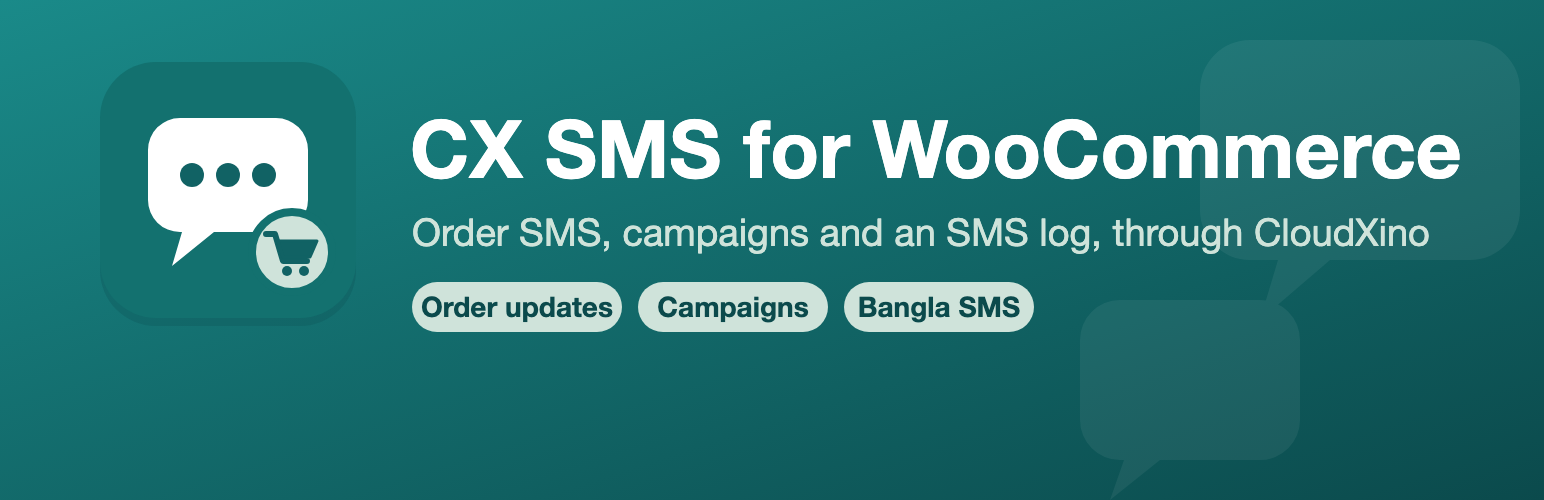
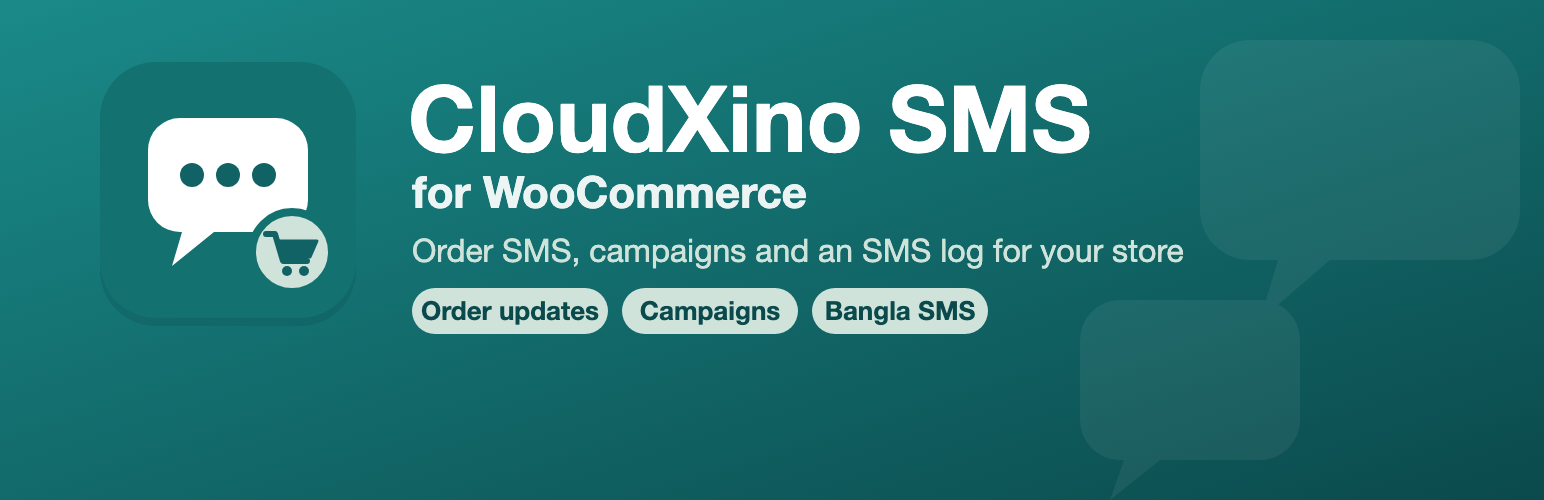
WordPress.org review: rename to CloudXino SMS for WooCommerce; limit notices
- Name "CloudXino SMS for WooCommerce", slug and Text Domain
  cloudxino-sms-for-woocommerce: the official plugin of CloudXino, owned on
  WordPress.org by the cloudxino account (Contributors: cloudxino, salimsrj).
  Plugin URI and Author URI point to cloudxino.com. Banner title updated.
- Guideline 11: the "needs WooCommerce" notice shows only on the Plugins screen, to
  users who can activate plugins; the stuck-queue warning shows only on the
  plugin's own SMS pages, no longer on the WooCommerce orders screens.

Changed region(s): [[0.2487, 0.15, 0.9637, 0.69]]

diff --git a/assets/admin.js b/assets/admin.js
@@ -1,4 +1,4 @@
-/* CX SMS admin: character counter, message switches, reveal secrets, tick all, refresh while sending. */
+/* CloudXino SMS admin: character counter, message switches, reveal secrets, tick all, refresh while sending. */
 ( function ( $ ) {
 	'use strict';
 

diff --git a/cxsms.php b/cxsms.php
@@ -1,7 +1,7 @@
 <?php
 /**
- * Plugin Name:       CX SMS for WooCommerce
- * Plugin URI:        https://github.com/salimsrj/cxsms
+ * Plugin Name:       CloudXino SMS for WooCommerce
+ * Plugin URI:        https://cloudxino.com
  * Description:       Texts customers about their WooCommerce orders through the CloudXino SMS gateway (sms.cloudxino.com): one message per order status, manual and test SMS, an SMS log and SMS campaigns to past customers.
  * Version:           1.0.0
  * Requires at least: 6.2
@@ -10,10 +10,10 @@
  * WC requires at least: 7.1
  * WC tested up to:   11.1
  * Author:            Mahmudul Hasan
- * Author URI:        https://profiles.wordpress.org/salimsrj/
+ * Author URI:        https://cloudxino.com
  * License:           GPL-2.0-or-later
  * License URI:       https://www.gnu.org/licenses/gpl-2.0.html
- * Text Domain:       cx-sms-for-woocommerce
+ * Text Domain:       cloudxino-sms-for-woocommerce
  *
  * @package CXSMS
  */

diff --git a/includes/class-cxsms-plugin.php b/includes/class-cxsms-plugin.php
@@ -37,9 +37,15 @@ class CXSMS_Plugin {
 		add_filter( 'plugin_action_links_' . plugin_basename( CXSMS_FILE ), array( __CLASS__, 'action_links' ) );
 	}
 
-	/** Shown while WooCommerce isn't active. */
+	/** Shown on the Plugins page only, to people who can activate plugins, while WooCommerce isn't active. */
 	public static function woocommerce_missing_notice() {
-		echo '<div class="notice notice-error"><p><strong>CX SMS for WooCommerce</strong> needs WooCommerce. Install and activate WooCommerce to send SMS.</p></div>';
+		$screen = function_exists( 'get_current_screen' ) ? get_current_screen() : null;
+
+		if ( ! $screen || 'plugins' !== $screen->id || ! current_user_can( 'activate_plugins' ) ) {
+			return;
+		}
+
+		echo '<div class="notice notice-error"><p><strong>CloudXino SMS for WooCommerce</strong> needs WooCommerce. Install and activate WooCommerce to send SMS.</p></div>';
 	}
 
 	/**

diff --git a/includes/admin/class-cxsms-admin.php b/includes/admin/class-cxsms-admin.php
@@ -76,7 +76,10 @@ class CXSMS_Admin {
 		set_transient( $key, $messages, 120 );
 	}
 
-	/** Flash messages, and a warning while SMS are stuck in the queue. */
+	/**
+	 * Flash messages after the plugin's own actions, and, on the plugin's own SMS pages only,
+	 * a warning while SMS are stuck in the queue.
+	 */
 	public static function notices() {
 		$key      = 'cxsms_flash_' . get_current_user_id();
 		$messages = get_transient( $key );
@@ -90,7 +93,7 @@ class CXSMS_Admin {
 
 		$screen = function_exists( 'get_current_screen' ) ? get_current_screen() : null;
 		$page   = $screen ? (string) $screen->id : '';
-		if ( ! current_user_can( self::CAPABILITY ) || ( false === strpos( $page, 'cxsms' ) && ! in_array( $page, array( 'edit-shop_order', 'woocommerce_page_wc-orders' ), true ) ) ) {
+		if ( ! current_user_can( self::CAPABILITY ) || false === strpos( $page, 'cxsms' ) ) {
 			return;
 		}
 

diff --git a/README.md b/README.md
@@ -1,4 +1,6 @@
-# CX SMS for WooCommerce
+# CloudXino SMS for WooCommerce
+
+The official CloudXino plugin for WooCommerce, by CloudXino (WordPress.org: `cloudxino`).
 
 A WordPress plugin that texts WooCommerce customers about their orders through the
 [CloudXino](https://sms.cloudxino.com) SMS gateway. It brings the SMS features of the
@@ -61,7 +63,7 @@ WordPress.org rejects hidden files such as `.gitignore`, so build the zip with `
 (it leaves out everything marked `export-ignore` in `.gitattributes`):
 
 ```bash
-git archive --format=zip --prefix=cx-sms-for-woocommerce/ -o ../cx-sms-for-woocommerce.zip HEAD
+git archive --format=zip --prefix=cloudxino-sms-for-woocommerce/ -o ../cloudxino-sms-for-woocommerce.zip HEAD
 ```
 
 Commit first: the zip is built from the last commit, not from unsaved changes.
@@ -80,7 +82,7 @@ you get once the plugin is approved.
 The sources are `icon.svg` and `source/banner.svg`. After approval, copy them to SVN:
 
 ```bash
-svn checkout https://plugins.svn.wordpress.org/cx-sms-for-woocommerce cx-sms-svn
-cp .wordpress-org/icon.svg .wordpress-org/*.png cx-sms-svn/assets/
-cd cx-sms-svn && svn add --force assets && svn commit -m "Plugin icon and banner"
+svn checkout https://plugins.svn.wordpress.org/cloudxino-sms-for-woocommerce cloudxino-sms-svn
+cp .wordpress-org/icon.svg .wordpress-org/*.png cloudxino-sms-svn/assets/
+cd cloudxino-sms-svn && svn add --force assets && svn commit -m "Plugin icon and banner"
 ```
